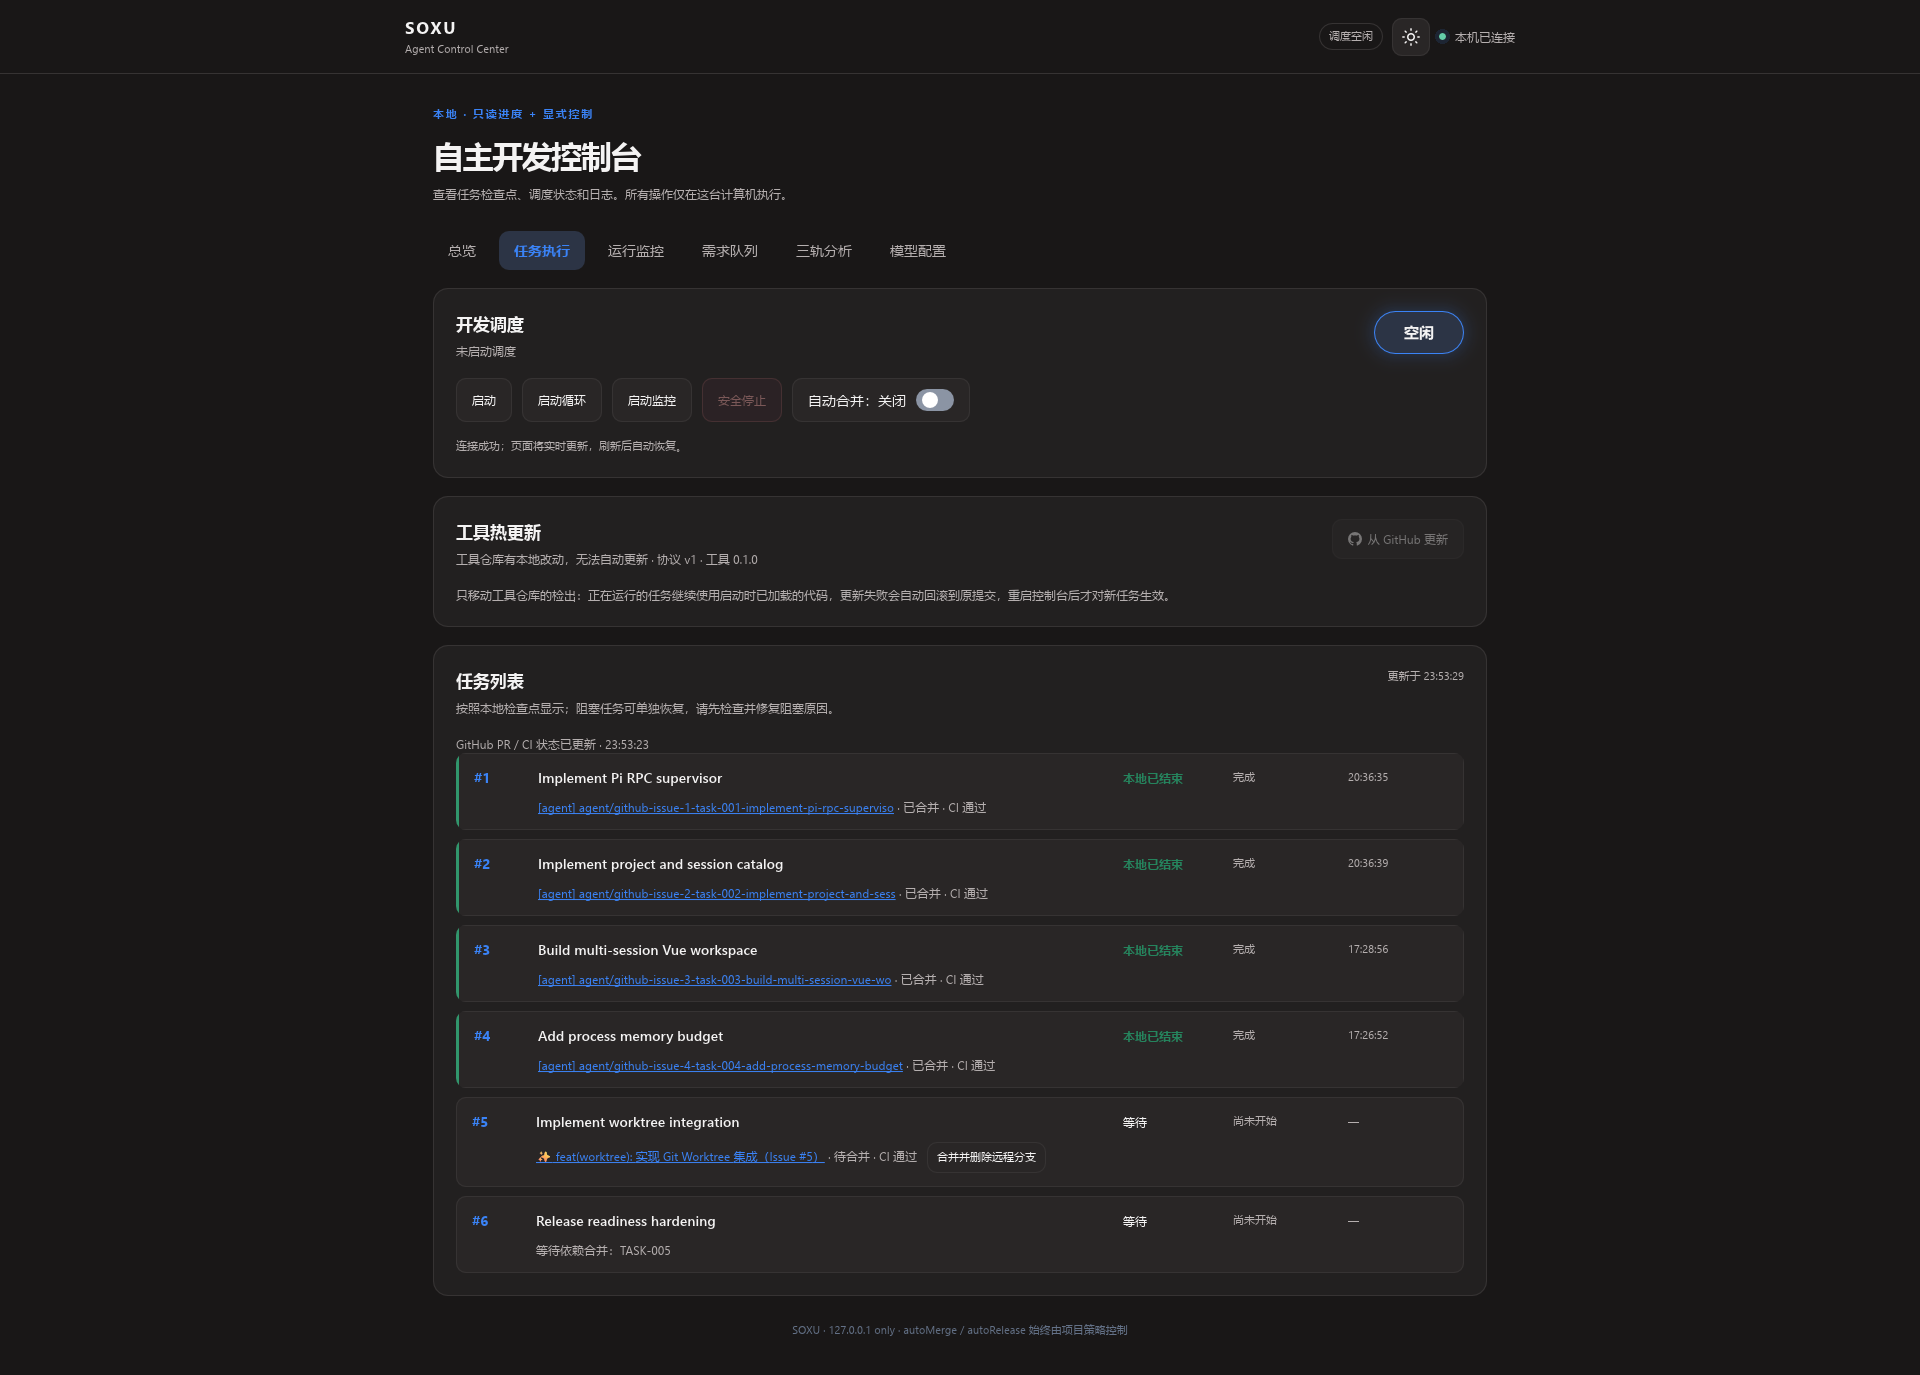
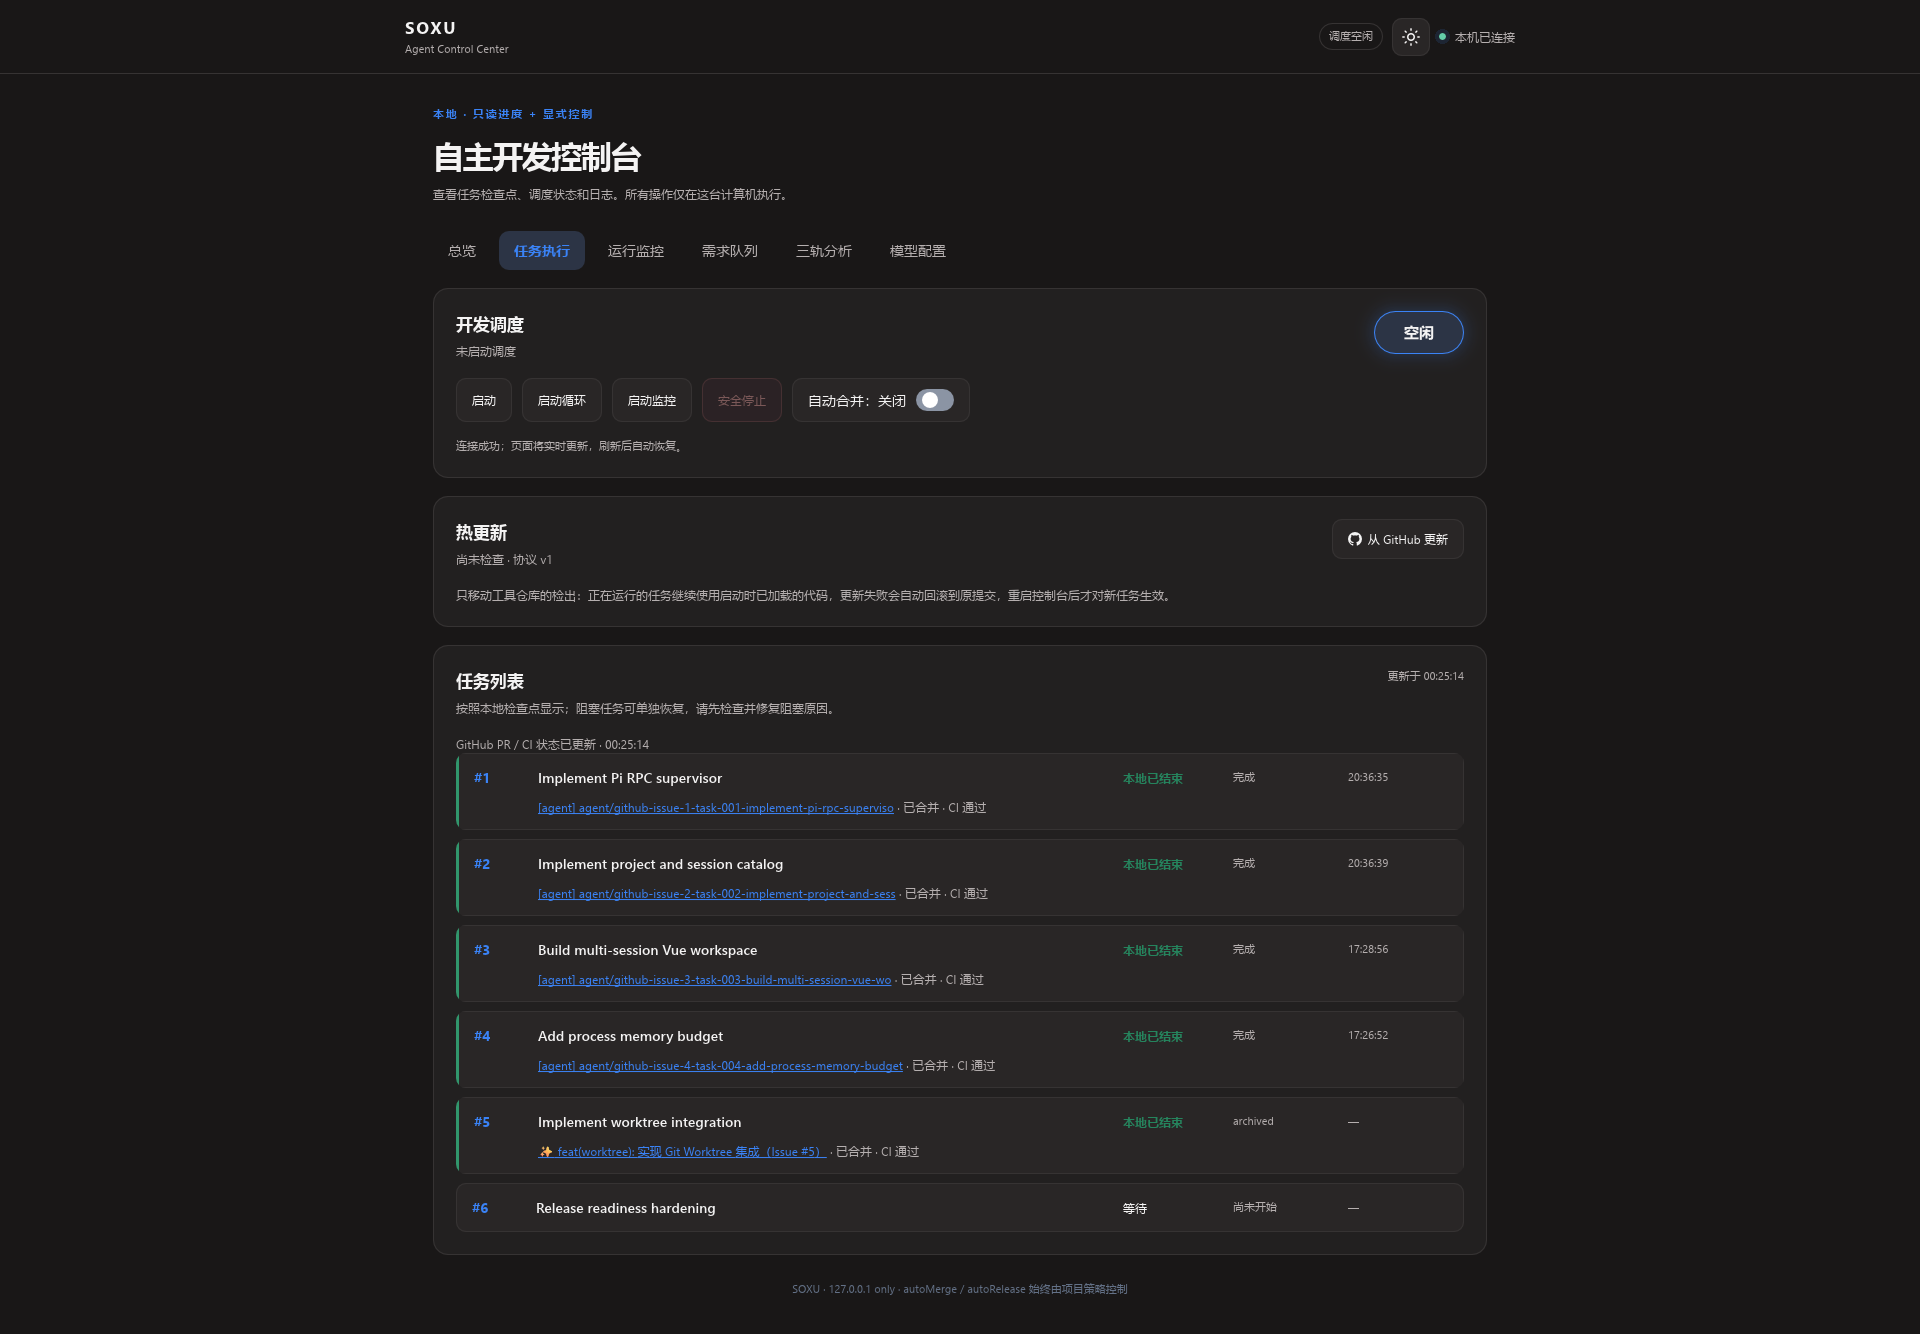
💄 style(dashboard): 热更新面板标题改为「热更新」 (#7)
按界面用语保持一致：面板标题去掉「工具」这个内部术语，动作交给带 GitHub 图标的「从 GitHub 更新」按钮，技术细节（只移动工具仓库检出、失败自动回滚）留在提示行。

- index.html：updateTitle 工具热更新 → 热更新
- README：同步面板名称与按钮说明
- 测试：data-migration / project-root 改用 config 的 ROOT 而非 process.env.SOXU_PROJECT_ROOT（配合同级回落，无需先导出环境变量即可跑测试）
- 测试：task-queue 期望值随 TASK-005 归档更新，并新增断言「归档任务不进队列但仍满足依赖」
- 证据：重拍两张真机截图（真实 Dashboard + Moli），DOM 断言 title=热更新、button=从 GitHub 更新、authHidden=true

验证：npm test 166 项 / 157 通过 / 9 跳过 / 0 失败（在未设置 SOXU_PROJECT_ROOT 的环境下跑通）。

diff --git a/automation/loop/web/index.html b/automation/loop/web/index.html
@@ -13,7 +13,7 @@
 <section class="stats" aria-label="任务统计"><div class="stat"><span>总任务</span><strong id="total">—</strong></div><div class="stat"><span>进行中</span><strong id="running">—</strong></div><div class="stat"><span>待处理</span><strong id="pending">—</strong></div><div class="stat"><span>本地执行结束</span><strong id="done">—</strong></div></section>
 </div><div id="pageExecution" hidden><section class="panel"><div class="panel-heading"><div><h2>开发调度</h2><p class="hint" id="runner">等待连接</p></div><span class="status-pill" id="badge">未连接</span></div>
 <div class="actions"><button class="action" data-command="start">启动</button><button class="action" data-command="loop">启动循环</button><button class="action" data-command="watch">启动监控</button><button class="danger" id="stop" disabled>安全停止</button><button id="autoMerge" class="merge-switch" role="switch" aria-checked="false" disabled>自动合并：关闭</button></div>
-<p class="notice" id="notice">控制台只能停止自身启动的任务；其他终端的任务仅展示状态。持续监控会产生模型调用费用。自动合并仅对本次控制台后续启动的任务生效，仍需仓库分支保护。</p></section><section class="panel" aria-labelledby="updateTitle"><div class="panel-heading"><div><h2 id="updateTitle">工具热更新</h2><p class="hint" id="updateStatus">尚未检查</p></div><span class="actions"><button class="action" id="updateTool" type="button"><svg class="github-icon" viewBox="0 0 16 16" width="14" height="14" aria-hidden="true" focusable="false"><path fill="currentColor" d="M8 0C3.58 0 0 3.58 0 8c0 3.54 2.29 6.53 5.47 7.59.4.07.55-.17.55-.38 0-.19-.01-.82-.01-1.49-2.01.37-2.53-.49-2.69-.94-.09-.23-.48-.94-.82-1.13-.28-.15-.68-.52-.01-.53.63-.01 1.08.58 1.23.82.72 1.21 1.87.87 2.33.66.07-.52.28-.87.51-1.07-1.78-.2-3.64-.89-3.64-3.95 0-.87.31-1.59.82-2.15-.08-.2-.36-1.02.08-2.12 0 0 .67-.21 2.2.82a7.6 7.6 0 012-.27c.68 0 1.36.09 2 .27 1.53-1.04 2.2-.82 2.2-.82.44 1.1.16 1.92.08 2.12.51.56.82 1.27.82 2.15 0 3.07-1.87 3.75-3.65 3.95.29.25.54.73.54 1.48 0 1.07-.01 1.93-.01 2.2 0 .21.15.46.55.38A8.01 8.01 0 0016 8c0-4.42-3.58-8-8-8z"/></svg>从 GitHub 更新</button></span></div><p class="hint">只移动工具仓库的检出：正在运行的任务继续使用启动时已加载的代码，更新失败会自动回滚到原提交，重启控制台后才对新任务生效。</p></section>
+<p class="notice" id="notice">控制台只能停止自身启动的任务；其他终端的任务仅展示状态。持续监控会产生模型调用费用。自动合并仅对本次控制台后续启动的任务生效，仍需仓库分支保护。</p></section><section class="panel" aria-labelledby="updateTitle"><div class="panel-heading"><div><h2 id="updateTitle">热更新</h2><p class="hint" id="updateStatus">尚未检查</p></div><span class="actions"><button class="action" id="updateTool" type="button"><svg class="github-icon" viewBox="0 0 16 16" width="14" height="14" aria-hidden="true" focusable="false"><path fill="currentColor" d="M8 0C3.58 0 0 3.58 0 8c0 3.54 2.29 6.53 5.47 7.59.4.07.55-.17.55-.38 0-.19-.01-.82-.01-1.49-2.01.37-2.53-.49-2.69-.94-.09-.23-.48-.94-.82-1.13-.28-.15-.68-.52-.01-.53.63-.01 1.08.58 1.23.82.72 1.21 1.87.87 2.33.66.07-.52.28-.87.51-1.07-1.78-.2-3.64-.89-3.64-3.95 0-.87.31-1.59.82-2.15-.08-.2-.36-1.02.08-2.12 0 0 .67-.21 2.2.82a7.6 7.6 0 012-.27c.68 0 1.36.09 2 .27 1.53-1.04 2.2-.82 2.2-.82.44 1.1.16 1.92.08 2.12.51.56.82 1.27.82 2.15 0 3.07-1.87 3.75-3.65 3.95.29.25.54.73.54 1.48 0 1.07-.01 1.93-.01 2.2 0 .21.15.46.55.38A8.01 8.01 0 0016 8c0-4.42-3.58-8-8-8z"/></svg>从 GitHub 更新</button></span></div><p class="hint">只移动工具仓库的检出：正在运行的任务继续使用启动时已加载的代码，更新失败会自动回滚到原提交，重启控制台后才对新任务生效。</p></section>
 
 <section class="panel"><div class="panel-heading"><div><h2>任务列表</h2><p class="hint">按照本地检查点显示；阻塞任务可单独恢复，请先检查并修复阻塞原因。</p></div><span id="updated" class="subtle"></span></div><p class="hint" id="githubStatus">GitHub 状态加载中</p><div id="tasks" class="tasks"><div class="empty">连接后显示任务</div></div></section>
 </div><div id="pageLanes" hidden><section class="panel"><div class="panel-heading"><div><h2>三轨开发与复盘</h2><p class="hint">职责分离 · 分析需手动启动 · 报告存在不代表正在运行</p></div></div><div class="lane-grid"><article class="lane-card"><h3>Development · 开发</h3><p>Issue → Worktree → 开发 → 检查 → 独立审查 → PR</p><strong id="developmentLane">等待连接</strong><small>使用上方开发调度；遵守现有门禁。</small></article><article class="lane-card"><h3>Product · 产品</h3><p>分析需求与路线图，仅生成本地建议。</p><strong id="productLane">等待连接</strong><button id="openProduct" class="lane-action">手动分析与报告</button></article><article class="lane-card"><h3>Quality · 质量</h3><p>分析质量和经验，仅生成本地建议。</p><strong id="qualityLane">等待连接</strong><button id="openQuality" class="lane-action">手动分析与报告</button></article></div><p id="lessonsStatus" class="hint">复盘规则：同一规则须有至少 3 个不同日期的证据，才可提出人工晋升申请；不会自动修改策略。</p></section>

diff --git a/README.md b/README.md
@@ -55,7 +55,7 @@ node automation/loop/src/cli.mjs update --check
 node automation/loop/src/cli.mjs update
 ```
 
-Dashboard 提供同样能力：`POST /api/update`，请求体为 `{"action":"check"}` 或 `{"action":"apply"}`；执行页的「工具热更新」面板有对应按钮。
+Dashboard 提供同样能力：`POST /api/update`，请求体为 `{"action":"check"}` 或 `{"action":"apply"}`；执行页的「热更新」面板有一个带 GitHub 图标的「从 GitHub 更新」按钮：先检查，有更新再确认应用。
 
 行为与边界：
 
